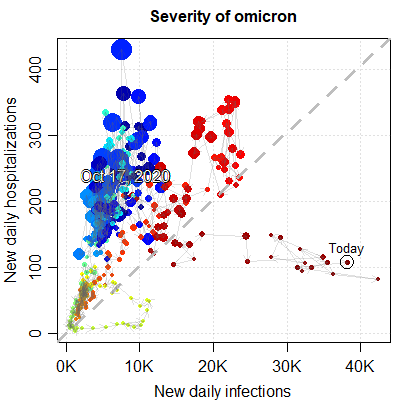
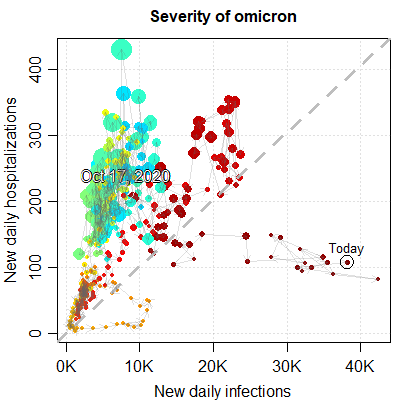
Jan 19, 2022

diff --git a/README.md b/README.md
@@ -1,6 +1,6 @@
 # COVID-19 in the Netherlands
 _Author: Jay Lee_  
-<i>Last update: Wed, Jan 19, 2022  3:31:34 PM</i>
+<i>Last update: Wed, Jan 19, 2022  8:56:28 PM</i>
 
 Table of Contents
 =================
@@ -126,17 +126,17 @@ Table of Contents
 ## Omicron  
   
 * The colors indicate the date:  
-  - Dark <blue>blue</blue> points are:  
-    + For left plot (new hospitalizations): the start of the 2nd wave (Oct 2020)  
-	+ For right plot (occupancy): the earliest days of the pandemic (from Mar 2020)  
-	+ _Hospital admissions data was unavailable until Oct 2020, while occupancy data was available as early as Mar 2020._  
+  - Dark <blue>blue</blue> points are the earliest days of the pandemic (Mar 2020)  
+  - _Hospital admissions data was unavailable until Oct 2020, while occupancy data was available as early as Mar 2020._  
   - Light green/yellow points are the middle of the pandemic.  
   - Dark <red>red</red>/brown points are the most recent dates.  
 * Faint arrows indicated the temporal trajectory.  
 * The points are sized by new daily deaths.  
 * The grey, dashed diagonal bisects the plot.  
-* <ins>Observations for left plot:</ins>  
-  - The blue arm -- at one o'clock -- represents the 2nd wave of the pandemic when fewer infections caused more hospitalizations and deaths  
+* <ins>Observations:</ins>  
+  - The dark blue arm -- at 12 o'clock -- represents the 1st wave when seemingly fewer infections incurred high hospitalization occupancy as well as deaths.  
+    + However, covid testing was at its infancy in this period.  
+  - The light blue arm -- at one o'clock -- represents the 2nd wave of the pandemic when fewer infections caused more hospitalizations and deaths.  
   - The red arm -- at two o'clock, near the diagonal line -- represents vaccination era, when infections led to fewer hospitalizations and deaths, than in the earlier days.  
   - **The dark red arm -- at three o'clock -- represents the omicron era, in which hospitalizations and deaths seem invariant to (even high) number of infections.**  
     + Interesting: there appears to be a similar horizontal invariance around the middle of the pandemic: light green to yellow dots whose trajectory is rectangular/counter-clockwise.  
@@ -144,9 +144,6 @@ Table of Contents
     
 <p align="center"><img src="/fig/cv_n_knoc.png" width="40%"><img src="/fig/cv_n_kb.png" width="40%"></p>  
   
-* <ins>Observations for right plot:</ins>  
-  - The blue arm here -- at 12 o'clock -- represents the 1st wave when seemingly fewer infections incurred high hospitalization occupancy as well as deaths.  
-  - However, covid testing was at its infancy in this period.  
   
   
   
